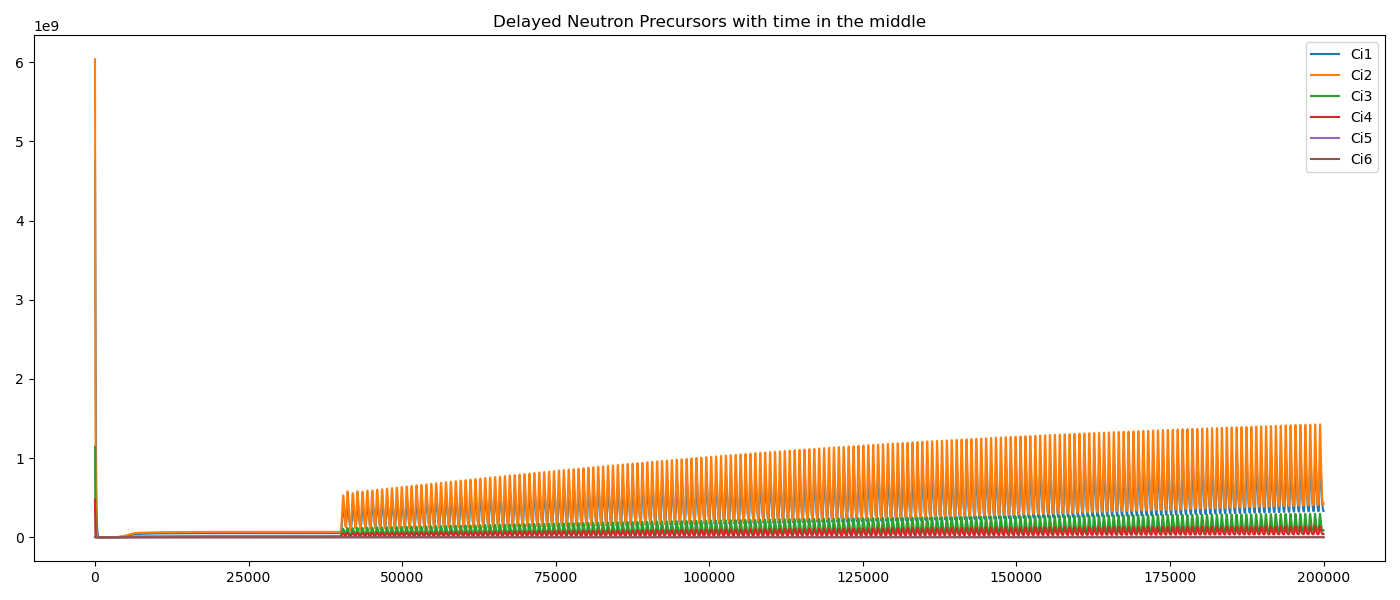
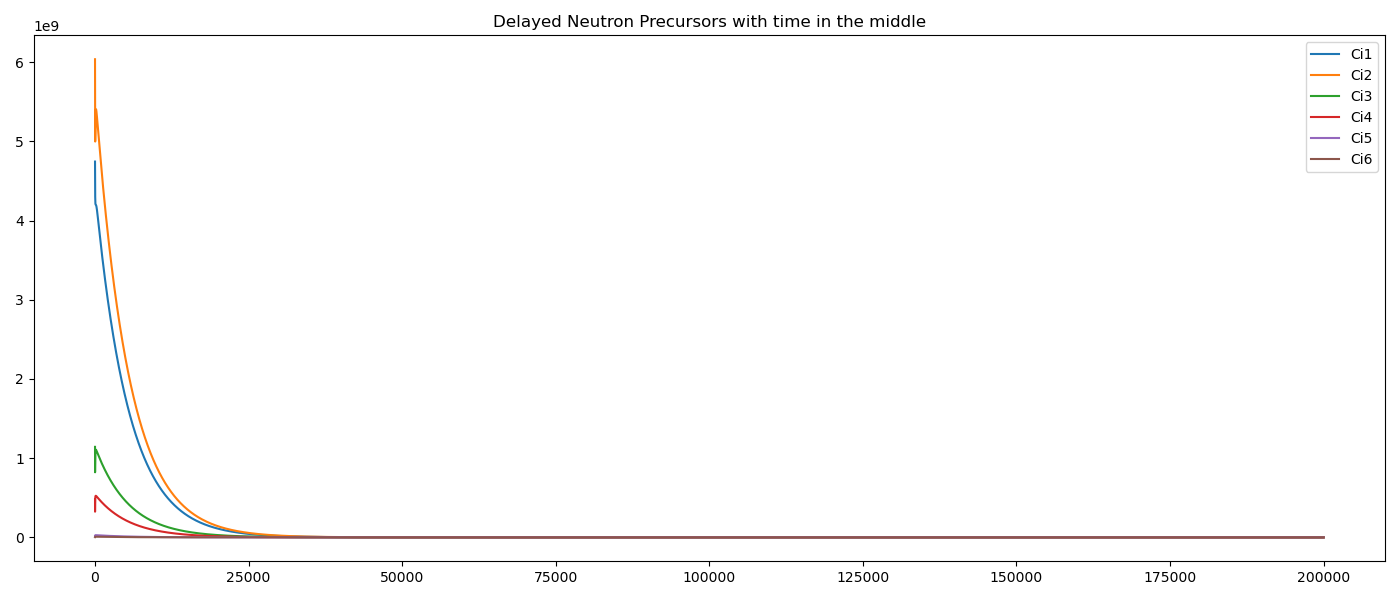
modify boundary conditions

Changed region(s): [[0.0614, 0.69, 0.9521, 0.9], [0.0614, 0.24, 0.0921, 0.69]]

diff --git a/parameters.py b/parameters.py
@@ -2,7 +2,7 @@ import numpy as np
 
 def generate_parameters(
     # Neutronics
-    dt=0.1, # fixed time step, 0.5
+    dt=0.01, # fixed time step, 0.5
     L = 172,  # Length of the spatial domain, cm
     # L = 22.9
     N = 200,  # Number of spatial points
@@ -79,6 +79,12 @@ def generate_parameters(
     M_he_s = 342,    # Mass of salt in the heat exchanger (fuel side), kg
     M_he_ss = 117,   # Mass of salt in the heat exchanger (coolant side), kg
     c_p_ss = 2416,   # Specific heat of secondary salt, J/kg/K
+    
+    h_s = 0.1,  # Heat transfer coefficient for fluid 1
+    k_s = 0.5,  # Thermal conductivity for fluid 1
+    h_ss = 0.1,  # Heat transfer coefficient for fluid 2
+    k_ss = 0.5,  # Thermal conductivity for fluid 2
+    T_ambient = 800, 
     # Initial conditions
     # u_L = 900.15,
     # u_H = 958,
@@ -115,6 +121,7 @@ def generate_parameters(
 
     # Reactivity
     # rho_init = 0 * np.ones(N)
+    max_rho_change = 0.0001,  # Maximum reactivity change, $/beta
     alpha_f    = -5.904E-5,  # -5.904E-5, U233 (drho/K) fuel salt temperature-reactivity feedback coefficient ORNL-TM-1647 p.3 % -5.904E-05; % ORNL-TM-0728 p. 101 %
     alpha_g    = -6.624E-5,  # -6.624E-5, U233  (drho/K) graphite temperature-reactivity feedback coefficient ORNL-TM-1647 p.3 % -6.624E-05; % ORNL-TM-0728 p.101
     tau_l  = 16.73,  # ORNL-TM-0728 %16.44; % (s)
@@ -192,6 +199,7 @@ def generate_parameters(
         'M_he_s': M_he_s,
         'M_he_ss': M_he_ss,
         'c_p_ss': c_p_ss,
+        
         'L_HX2': L_HX2,
         'V_he2_s': V_he2_s,
         'V_he2_ss': V_he2_ss,
@@ -200,6 +208,7 @@ def generate_parameters(
         'M_he2_ss': M_he2_ss,
         'c_p_sss': c_p_sss,
         'rho_init': rho_init,
+        'max_rho_change': max_rho_change,
         'alpha_f': alpha_f,
         'alpha_g': alpha_g,
         'tau_l': tau_l,
@@ -217,6 +226,11 @@ def generate_parameters(
         'err': err,
         'Nx': Nx,
         'dx': dx,
+        'h_s': h_s,
+        'k_s': k_s,
+        'h_ss': h_ss,
+        'k_ss': k_ss,
+        'T_ambient': T_ambient,
         'u_L': u_L,
         'u_H': u_H,
         'v_L': v_L,

diff --git a/main.py b/main.py
@@ -20,7 +20,7 @@ def run_simulation(params, index):
     initialG = params['initialG']
 
     # Extract parameters
-    rho_insertion = 50 * np.ones(N)     # pcm
+    rho_insertion = 0 * np.ones(N)     # pcm
     rho = params['rho_init'] * np.ones(N)
     # rho = 0 * np.ones(N)
     y_n = np.zeros((7 * N, 1))
@@ -81,9 +81,9 @@ def run_simulation(params, index):
 
         Ts_core_0 = transport_delay(Ts_HX1_0, params['tau_hx_c'], Ts_in, buffer_hx_c, step)
         y_th = thermal_hydraulics(y_th, q_prime, Ts_core_0, params, step)
-        if step % 800 == 0:
-            temperature_fuel_r=y_th[:N,-1].T
-            temperature_graphite_r=y_th[N:,-1].T
+        # if step % 800 == 0:
+        #     temperature_fuel_r=y_th[:N,-1].T
+        #     temperature_graphite_r=y_th[N:,-1].T
         temperature_fuel = y_th[:N, -1].T
         temperature_graphite = y_th[N:, -1].T
         Ts_core_L = y_th[-1, -1]
@@ -111,7 +111,7 @@ def run_simulation(params, index):
         y_pp = power_plant_temp(Tsss_pp_L, step)
         Tsss_pp_0 = y_pp
 
-        rho = reactivity(temperature_fuel_r, temperature_graphite_r, temperature_fuel, temperature_graphite, step, time_span, rho_insertion, params)
+        rho = reactivity(initialS, initialG, temperature_fuel, temperature_graphite, step, time_span, rho_insertion, params)
         rho_matrix[step] = rho.mean()
         if step > 0:
             rho_dt_matrix[step] = rho.mean() - rho_matrix[step - 1]

diff --git a/HX1.py b/HX1.py
@@ -25,6 +25,11 @@ def HX1(y_hx1, Ts_HX1_L, Tss_HX1_0, params, step):
     err = params['err']
     u_init = params['u_init']
     v_init = params['v_init']
+    h_s = params['h_s']
+    k_s = params['k_s']
+    h_ss = params['h_ss']
+    k_ss = params['k_ss']
+    T_ambient = params['T_ambient']
     
     # New Form Parameters
     C1 = V_he_s
@@ -55,10 +60,16 @@ def HX1(y_hx1, Ts_HX1_L, Tss_HX1_0, params, step):
         dv_dt = C3 * (A_HX_sparse @ v) + C4 * (u - v) + err
         
         # Apply time-varying boundary conditions
-        du_dt[0] = u_L - u[0] / dx
-        du_dt[-1] = u_H - u[-1] / dx
-        dv_dt[0] = v_L - v[0] / dx
-        dv_dt[-1] = v_H - v[-1] / dx
+        # du_dt[0] = u_L - u[0] / dx
+        # du_dt[-1] = u_H - u[-1] / dx
+        # dv_dt[0] = v_L - v[0] / dx
+        # dv_dt[-1] = v_H - v[-1] / dx
+        du_dt[0] = (h_s / k_s) * (T_ambient - u[0]) - u[0] / dx  # Robin condition at the left boundary for `u`
+        du_dt[-1] = (h_s / k_s) * (T_ambient - u[-1]) - u[-1] / dx  # Robin condition at the right boundary for `u`
+
+        dv_dt[0] = (h_ss / k_ss) * (T_ambient - v[0]) - v[0] / dx  # Robin condition at the left boundary for `v`
+        dv_dt[-1] = (h_ss / k_ss) * (T_ambient - v[-1]) - v[-1] / dx  # Robin condition at the right boundary for `v`
+
         
         dydt = np.concatenate([du_dt, dv_dt])
         return dydt

diff --git a/reactivity.py b/reactivity.py
@@ -13,9 +13,8 @@ def reactivity(temperature_fuel_r, temperature_graphite_r, temperature_fuel, tem
     L=params['L']
     N=params['N']
     # initial conditions for TH
-    initialS = params['initialS']
-    initialG = params['initialG']
     scale=params['scale']
+    max_rho_change=params['max_rho_change']
     
     rho_0=sum(beta)
     for i in range(6):
@@ -58,7 +57,11 @@ def reactivity(temperature_fuel_r, temperature_graphite_r, temperature_fuel, tem
     else:
         react = reactdata[1]
         
-    rho_feedback=(temperature_fuel_r-temperature_fuel)*alpha_f+(temperature_graphite_r-temperature_graphite)*alpha_g
+    # rho_feedback=(temperature_fuel_r-temperature_fuel)*alpha_f+(temperature_graphite_r-temperature_graphite)*alpha_g
+    rho_feedback = np.clip((temperature_fuel_r - temperature_fuel) * alpha_f +
+                       (temperature_graphite_r - temperature_graphite) * alpha_g,
+                       -max_rho_change, max_rho_change)
+
     # rho_feedback = rho_feedback *0
     rho=rho_0+rho_feedback*scale+react
     

diff --git a/neutronics.py b/neutronics.py
@@ -24,11 +24,18 @@ def neutronics(y_n, rho, step, params):
     D2 = (np.diag(main_diag) + np.diag(off_diag, 1) + np.diag(off_diag, -1)) / dz**2
     
     # Boundary conditions: Dirichlet boundary conditions for zero flux at boundaries
-    D2[0, :] = 0
-    D2[-1, :] = 0
-    D2[0, 0] = 1
-    D2[-1, -1] = 1
+    # D2[0, :] = 0
+    # D2[-1, :] = 0
+    # D2[0, 0] = 1
+    # D2[-1, -1] = 1
     
+    # Neumann boundary conditions: zero flux gradient at boundaries
+    D2[0, 0] = -2
+    D2[0, 1] = 2  # Approximate first derivative at the left boundary
+
+    D2[-1, -1] = -2
+    D2[-1, -2] = 2  # Approximate first derivative at the right boundary
+
     D2_sparse = csc_matrix(D2)
     I = np.eye(N)
     A = csc_matrix(I - 0.5 * dt * V * D * D2_sparse)
